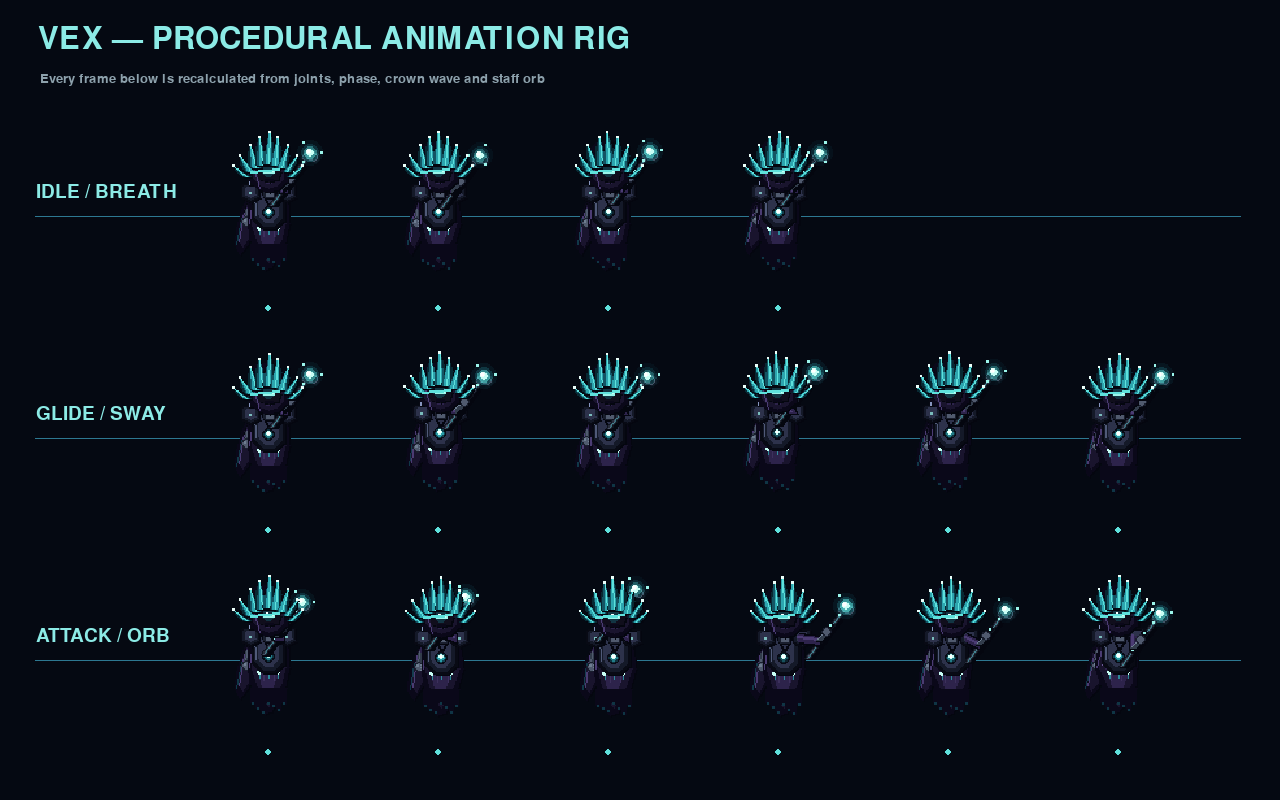
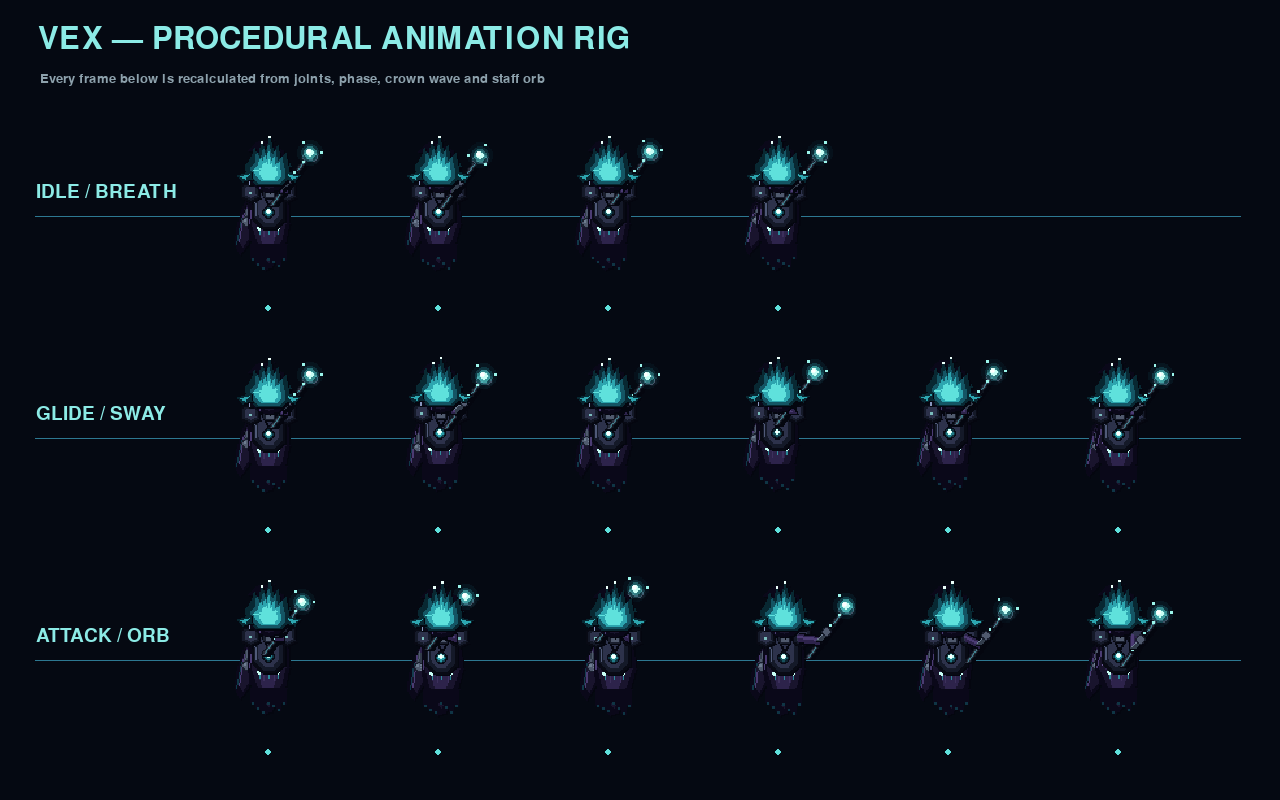
Vex: crown jadi satu crest api tersambung (bukan jarum landak) + horn samping; regenerasi preview

diff --git a/heroes/_bundle.py b/heroes/_bundle.py
@@ -8732,32 +8732,40 @@ class _NS_vex:
                  (0, -44), (7, -40), (10, -34), (8, -28), (4, -22),
                  (-4, -22)], False)
             return
-        # Curved flame licks growing out of the void volume.
-        spikes = [
-            (-14, -30, -22, -42, 4), (-10, -33, -15, -50, 4),
-            (-5, -35, -7, -56, 5), (0, -36, 0, -60, 5),
-            (5, -35, 7, -56, 4), (10, -33, 15, -50, 4),
-            (14, -30, 22, -42, 3), (-17, -26, -26, -34, 3),
-            (17, -26, 26, -34, 3),
-        ]
-        for i, (bx, by, tx, ty, wd) in enumerate(spikes):
-            wig = int(math.sin(phase * 1.1 + i * .6) * (1 + i % 2))
-            tx2 = tx + wig
-            ty2 = ty + int(abs(wig) * .4)
-            mx = (bx + tx2) // 2 + (2 if bx >= 0 else -2)
-            my = (by + ty2) // 2
-            poly(p["void_darkest"], [(bx - wd, by), (mx - wd // 2, my),
-                 (tx2, ty2), (mx + wd // 2, my), (bx + wd, by)])
-            poly(p["void_dark"], [(bx - wd + 1, by), (tx2, ty2),
-                 (bx + wd - 1, by)], False)
-            poly(p["void_mid"], [(bx - wd // 2, by), (tx2, ty2),
-                 (bx + wd // 2, by)], False)
-            _NS_vex._aaline(surface, p["void_light"], pt(bx, by),
-                            pt(tx2, ty2), 1)
-            x, y = pt(tx2, ty2)
+        # ONE connected flaming crest silhouette (bukan jarum terpisah):
+        # gelombang api menyapu ke belakang dengan 4 puncakan berlekuk.
+        crest = [(-16, -26), (-18, -34), (-13, -40), (-11, -48),
+                 (-8, -41), (-5, -52), (-2, -43), (1, -56), (4, -44),
+                 (7, -50), (9, -40), (13, -44), (15, -34), (16, -26),
+                 (10, -20), (-10, -20)]
+        sway = int(math.sin(phase * 1.1) * 1)
+
+        def lift(q):
+            return (q[0] + (sway if q[1] < -40 else 0), q[1])
+
+        poly(p["void_darkest"], [lift(q) for q in crest])
+
+        def inner(scale):
+            out = []
+            for x, y in crest:
+                out.append((int(x * scale), int(-28 + (y + 28) * scale)))
+            return out
+
+        poly(p["void_dark"], inner(0.82), False)
+        poly(p["void_mid"], inner(0.62), False)
+        poly(p["void_light"], inner(0.40), False)
+        # flame licks on the two tallest notches + bright beads
+        for tx, ty in ((-5, -52), (1, -56)):
+            x, y = pt(tx + sway, ty)
             _NS_vex._aacircle(surface, p["crown_tip"], (x, y), 1)
-        _NS_vex._aaline(surface, p["crown_rim"], pt(-14, -30),
-                        pt(8, -32), 2)
+        # side horns curving out from the temples
+        for side in (-1, 1):
+            poly(p["void_darkest"], [(side * 14, -30), (side * 24, -27),
+                 (side * 20, -22), (side * 13, -24)])
+            poly(p["void_mid"], [(side * 15, -28), (side * 22, -26),
+                 (side * 18, -24)], False)
+        _NS_vex._aaline(surface, p["crown_rim"], pt(-12, -31),
+                        pt(6, -33), 1)
 
 
     # -------------------------------------------------------------------
